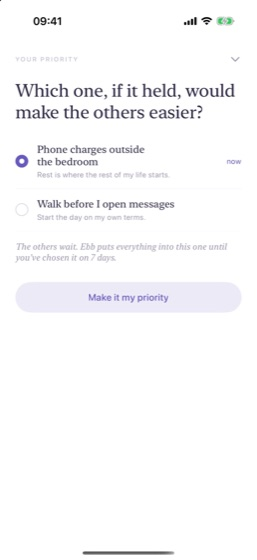
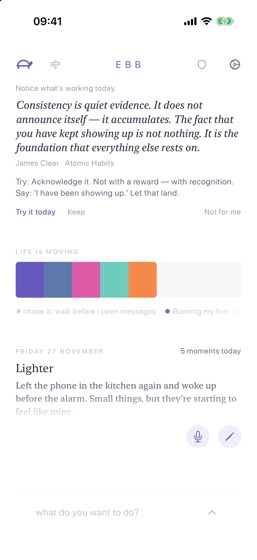
Ebb copy: a personal system for living well; new points and Home screen (#26)
Lede says what Ebb is now. The four points cover help in the moment,
recovery after a slip and the night lock. Home screenshot replaced: the
old one showed the one-priority picker, which the app no longer has.

diff --git a/app/components/ebb-stage.tsx b/app/components/ebb-stage.tsx
@@ -3,17 +3,17 @@ import { useEffect, useRef } from "react";
 import { BetaForm } from "./beta-form";
 
 const SCREENS = [
-  { src: "/ebb/home.jpg", alt: "Ebb home: choose one priority. The others wait.", depth: 0.9 },
+  { src: "/ebb/home.jpg", alt: "Ebb home: a line to notice, the week as a band of colour, and today's entry.", depth: 0.9 },
   { src: "/ebb/life.jpg", alt: "Ebb's life-is-moving view: each day a strip of colour.", depth: 1.5 },
   { src: "/ebb/pursuit.jpg", alt: "Ebb pursuit detail: twelve runs, a weekly heatmap and history.", depth: 0.6 },
   { src: "/ebb/day.jpg", alt: "Ebb day view: decisions kept, focus sessions and a line to remember.", depth: 1.2 },
 ];
 
 const POINTS = [
-  { t: "Journal by voice or pen.", d: "A line is enough." },
-  { t: "Focus, protected.", d: "One tap shields the apps that pull you away." },
-  { t: "One decision at a time.", d: "Your mindset on it, and ways through when it is tested." },
-  { t: "Look back.", d: "Days as colour. Pursuits as heatmaps." },
+  { t: "In your words.", d: "Journal by voice or pen. A line is enough." },
+  { t: "Help in the moment.", d: "When a choice is tested, sit with it. One way through, started in a tap." },
+  { t: "A slip is not the day.", d: "No streaks, no points. The rest of your choices stay open." },
+  { t: "Protected at night.", d: "Apps lock at bedtime. Your morning routine lifts it." },
 ];
 
 /** Four real screens, layered. They drift apart with the pointer, each at its own depth. */
@@ -49,7 +49,7 @@ export function EbbStage() {
         <p className="mono">iOS · Swift · on device</p>
         <h2>A life<br /><em>in progress.</em></h2>
         <p className="ebb-thesis">Intentions into decisions.<br />Decisions into practice.<br />Practice into evidence.</p>
-        <p className="ebb-lede">You know what matters. Your days don’t always show it. Ebb is a private iOS app that closes the gap: journal, focus, and hold one decision at a time, then see where your days actually went.</p>
+        <p className="ebb-lede">Ebb is a personal system for living well, changing behaviour and enjoying the process of becoming. Journal, focus, and make a few choices a day, then see where your days went. Private, on your device.</p>
       </div>
 
       <div className="ebb-cluster" ref={cluster}>

diff --git a/app/components/hero.tsx b/app/components/hero.tsx
@@ -5,7 +5,7 @@ import { onLevel } from "@/lib/audio-bus";
 
 const PREVIEWS: Record<string, string> = {
   Moko: "Audio ML pipeline. Live.",
-  Ebb: "A private life system, on the device.",
+  Ebb: "A personal system for living well.",
   Experience: "Eight years of front-office systems.",
   Music: "ynda. Afloat EP.",
   Contact: "Say hello.",
